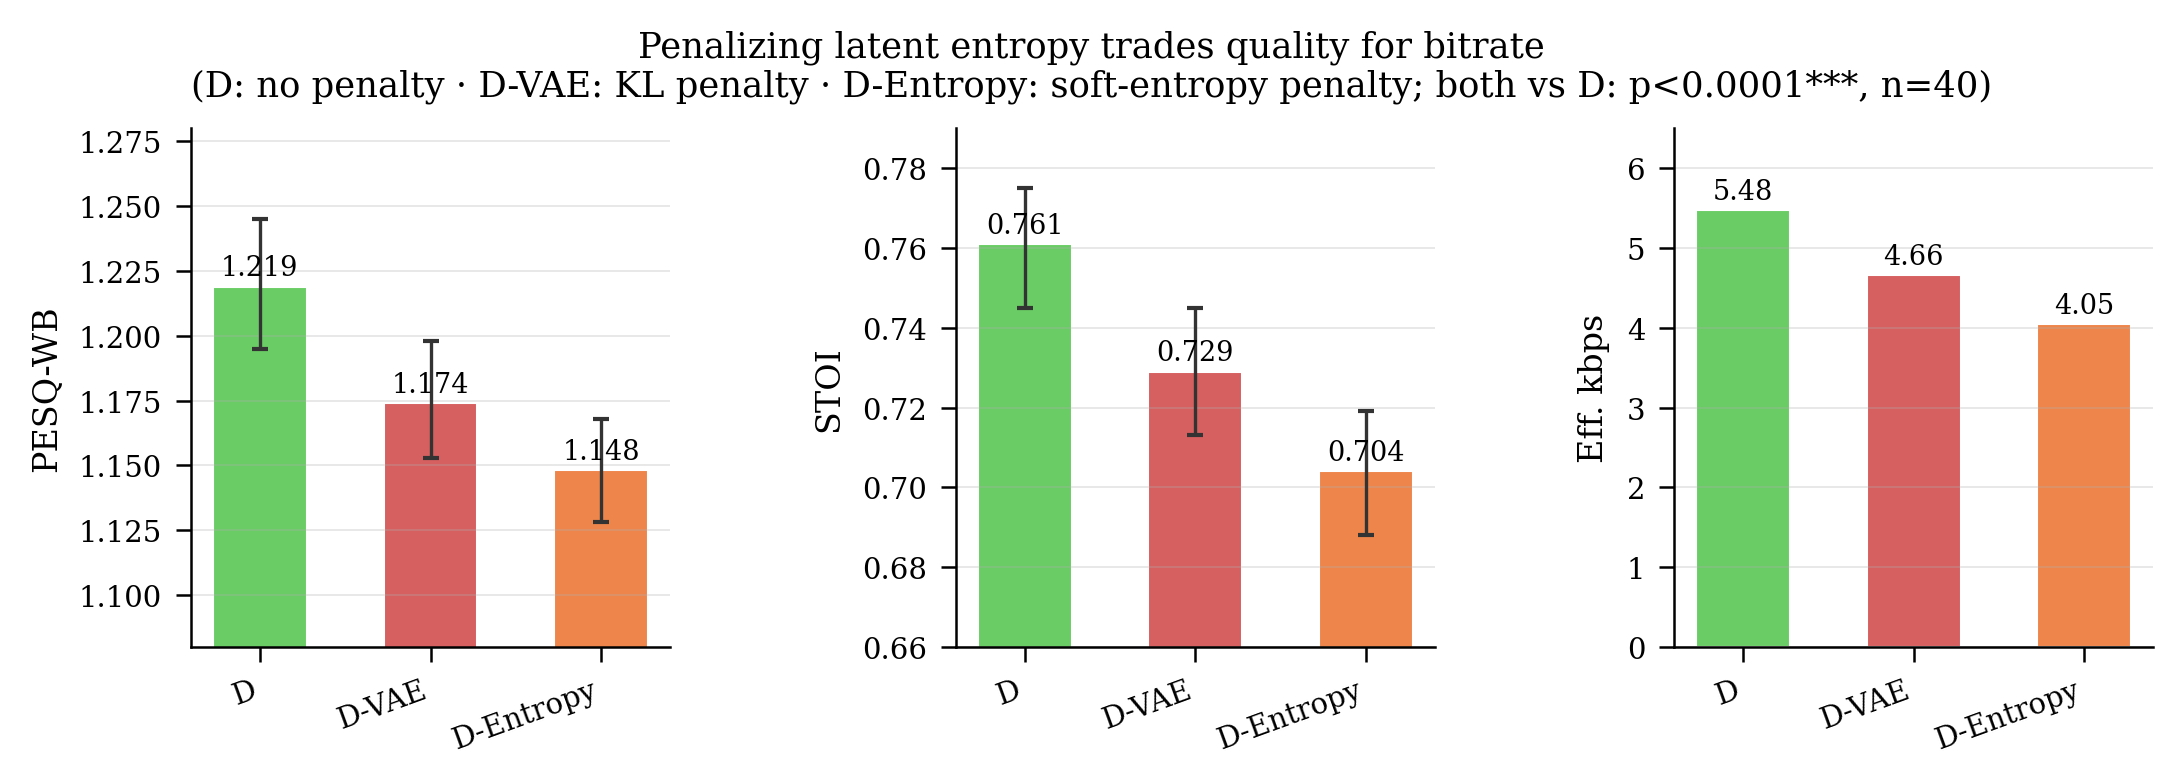
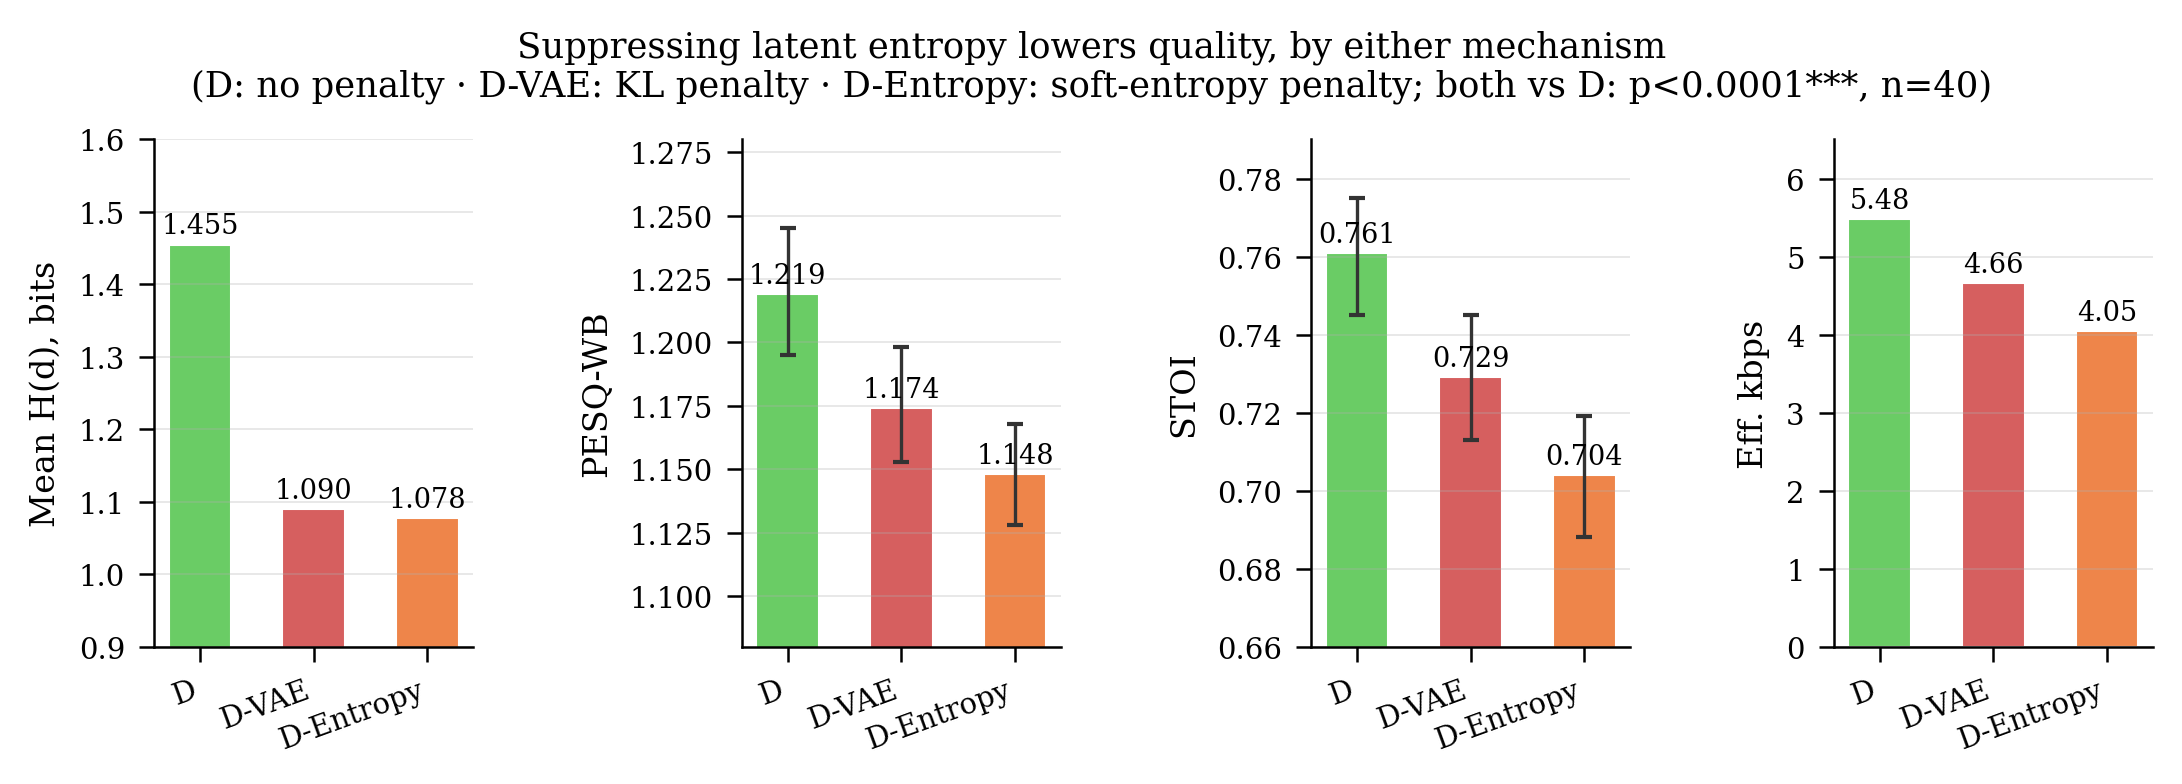
feat: add phaseDentropy to analyze_compression and update compression phase names in data_loader fix: enhance fig_17_entropy_ablation to include mean_h and adjust error handling for new metrics

diff --git a/scripts/figures/plots.py b/scripts/figures/plots.py
@@ -609,36 +609,45 @@ def fig_16_multi_coder(data: dict) -> plt.Figure:
 
 def fig_17_entropy_ablation(data: dict) -> plt.Figure:
     ci = data['ci']
+    comp = data.get('compression', {})
     phases = [p for p in ['D', 'D-VAE', 'D-Entropy'] if p in ci]
+
+    # Measured latent entropy, the quantity these phases actually manipulate.
+    # Only plotted when every phase has it -- a partly-filled panel would imply
+    # the missing phase has no entropy rather than no measurement.
+    show_entropy = all(p in comp for p in phases)
 
     # ylim tuned so bar differences are clearly visible
     ylims = {
-        'pesq': (1.08, 1.28),
-        'stoi': (0.66, 0.79),
-        'kbps': (0.0, 6.5),
+        'pesq':   (1.08, 1.28),
+        'stoi':   (0.66, 0.79),
+        'kbps':   (0.0, 6.5),
+        'mean_h': (0.9, 1.6),
     }
 
-    fig, axes = plt.subplots(1, 3, figsize=(style.COL2_W, style.ROW_H),
+    panels = [('pesq', 'PESQ-WB'), ('stoi', 'STOI'), ('kbps', 'Eff. kbps')]
+    if show_entropy:
+        panels.insert(0, ('mean_h', 'Mean H(d), bits'))
+
+    fig, axes = plt.subplots(1, len(panels), figsize=(style.COL2_W, style.ROW_H),
                               gridspec_kw={'wspace': 0.2})
-    for ax, metric, label in [
-        (axes[0], 'pesq', 'PESQ-WB'),
-        (axes[1], 'stoi', 'STOI'),
-        (axes[2], 'kbps', 'Eff. kbps'),
-    ]:
-        vals   = [ci[p][metric]  for p in phases]
+    for ax, (metric, label) in zip(axes, panels):
+        src    = comp if metric == 'mean_h' else ci
+        vals   = [src[p][metric] for p in phases]
         colors = [style.PHASE_COLORS[p] for p in phases]
-        errs_lo = [ci[p][metric] - ci[p].get(f'{metric}_lo', ci[p][metric]) for p in phases]
-        errs_hi = [ci[p].get(f'{metric}_hi', ci[p][metric]) - ci[p][metric] for p in phases]
+        errs_lo = [src[p][metric] - src[p].get(f'{metric}_lo', src[p][metric]) for p in phases]
+        errs_hi = [src[p].get(f'{metric}_hi', src[p][metric]) - src[p][metric] for p in phases]
         lo, hi  = ylims[metric]
         bars = ax.bar(range(len(phases)), vals, 0.55, color=colors,
                       edgecolor='white', linewidth=0.5, bottom=0)
-        if metric != 'kbps':
+        # kbps and entropy are point estimates here, not bootstrapped -- no bars.
+        if metric not in ('kbps', 'mean_h'):
             ax.errorbar(range(len(phases)), vals, yerr=[errs_lo, errs_hi],
                         fmt='none', color='#333', linewidth=0.8, capsize=2)
         span = hi - lo
         for bar, v in zip(bars, vals):
             ax.text(bar.get_x() + bar.get_width() / 2, v + 0.01 * span,
-                    f'{v:.3f}' if metric != 'kbps' else f'{v:.2f}',
+                    f'{v:.2f}' if metric == 'kbps' else f'{v:.3f}',
                     ha='center', va='bottom', fontsize=6.5)
         ax.set_xticks(range(len(phases)))
         # "D-VAE" and "D-Entropy" are wide enough at this bar spacing to run
@@ -648,7 +657,7 @@ def fig_17_entropy_ablation(data: dict) -> plt.Figure:
         ax.set_ylim(lo, hi)
         ax.grid(True, axis='y')
 
-    fig.suptitle('Penalizing latent entropy trades quality for bitrate\n'
+    fig.suptitle('Suppressing latent entropy lowers quality, by either mechanism\n'
                  '(D: no penalty · D-VAE: KL penalty · D-Entropy: soft-entropy penalty; '
                  'both vs D: p<0.0001***, n=40)', fontsize=8.5)
     return fig

diff --git a/scripts/analyze_compression.py b/scripts/analyze_compression.py
@@ -29,6 +29,10 @@ PHASES = {
     'phaseC':    PROJECT_ROOT / 'checkpoints_active/temporal_phaseC/best.pt',
     'phaseD':    PROJECT_ROOT / 'checkpoints_active/temporal_phaseD/best.pt',
     'phaseDvae': PROJECT_ROOT / 'checkpoints_active/temporal_phaseD_vae/best.pt',
+    # Second entropy-suppression mechanism (#6). Its quality was measured with every
+    # other phase, but its latent entropy never was -- which left the one phase that
+    # penalizes entropy directly as the only one without an entropy number.
+    'phaseDentropy': PROJECT_ROOT / 'checkpoints_active/temporal_phaseEntropy/best.pt',
     'phaseE':    PROJECT_ROOT / 'checkpoints_active/temporal_phaseE/best.pt',
     'phaseF':    PROJECT_ROOT / 'checkpoints_active/temporal_phaseF/best.pt',
     'phaseG':    PROJECT_ROOT / 'checkpoints_active/temporal_phaseG/best.pt',
@@ -38,6 +42,10 @@ PHASES = {
     'phaseD64':    PROJECT_ROOT / 'checkpoints_active/temporal_phaseD_64/best.pt',
     'phaseDvae64': PROJECT_ROOT / 'checkpoints_active/temporal_phaseD_vae_64/best.pt',
 }
+
+# Per-dimension table column width: wide enough for the longest phase name plus a
+# separating space, so header cells never merge (see the header format below).
+_COL_W = max(12, max(len(n) for n in PHASES) + 2)
 
 CLIP_SEC = 5
 SR       = 16000
@@ -171,7 +179,9 @@ def main():
     # Per-dimension entropy table (averaged across speakers)
     lines += [
         'PER-DIMENSION MEAN ENTROPY  (averaged across 5 speakers)',
-        f"{'Dim':<6}" + ''.join(f"{n:>12}" for n in models),
+        # Width must exceed the longest phase name, or adjacent header cells run
+        # together into one token and every downstream column parse misaligns.
+        f"{'Dim':<6}" + ''.join(f"{n:>{_COL_W}}" for n in models),
         sep,
     ]
     # Bottleneck width varies across phases (16/32/64-dim variants) -- each
@@ -188,7 +198,8 @@ def main():
         row_str = f"  {d:<4}"
         for name in models:
             vals = dim_entropy_per_phase[name]
-            row_str += f"{vals[d]:>12.3f}" if d < len(vals) else f"{'--':>12}"
+            row_str += (f"{vals[d]:>{_COL_W}.3f}" if d < len(vals)
+                        else f"{'--':>{_COL_W}}")
         lines.append(row_str)
 
     lines += [sep, '']

diff --git a/scripts/figures/data_loader.py b/scripts/figures/data_loader.py
@@ -135,6 +135,15 @@ _RE_COMP_ROW = re.compile(
 )
 
 
+# analyze_compression.py writes phase keys like "phaseDvae"; the rest of the
+# figure code keys on the display names used by the CI report ("D-VAE",
+# "D-Entropy"). Anything not listed here just gets upper-cased.
+_COMP_PHASE_NAMES = {
+    'dvae':      'D-VAE',
+    'dentropy':  'D-Entropy',
+}
+
+
 def _load_compression(path: Path):
     comp: dict = {}
     per_dim: dict = {}
@@ -144,7 +153,7 @@ def _load_compression(path: Path):
         m = _RE_COMP_ROW.match(line)
         if m:
             raw = m.group(1)
-            phase = 'D-VAE' if raw.lower() == 'dvae' else raw.upper()
+            phase = _COMP_PHASE_NAMES.get(raw.lower(), raw.upper())
             comp[phase] = dict(
                 ratio=float(m.group(2)), eff_kbps=float(m.group(3)),
                 theo_kbps=float(m.group(4)), mean_h=float(m.group(5)),
@@ -156,7 +165,7 @@ def _load_compression(path: Path):
             phase_cols = []
             for t in tokens[1:]:
                 name = t.replace('phase', '')
-                name = 'D-VAE' if name.lower() == 'dvae' else name.upper()
+                name = _COMP_PHASE_NAMES.get(name.lower(), name.upper())
                 phase_cols.append(name)
             per_dim = {p: [] for p in phase_cols}
             in_per_dim = True
